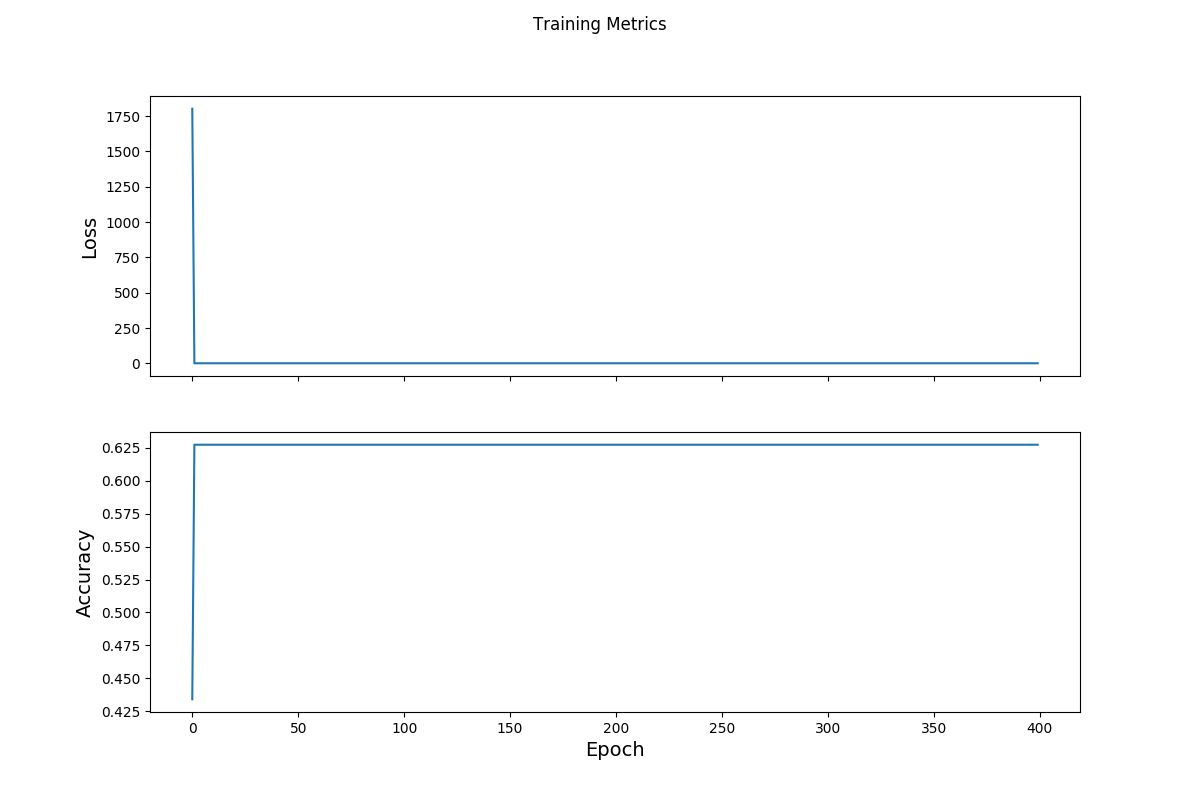
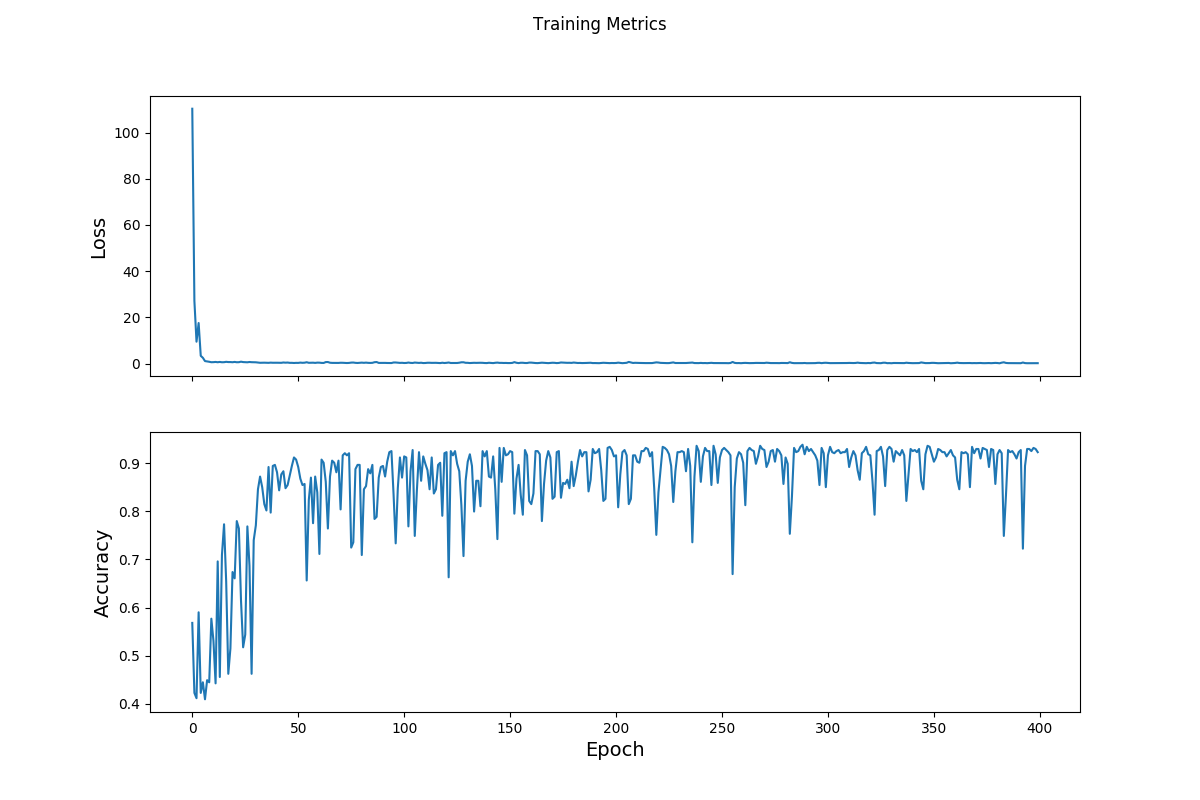
Got cancer bot to 86.57% accuracy

diff --git a/iris/cancer_predictor/test_cancer.py b/iris/cancer_predictor/test_cancer.py
@@ -1,32 +1,40 @@
 from os import path
 from pathlib import Path
 import unittest
-from fraud import Fraud
+from cancer import Cancer
 import tensorflow as tf
 tf.enable_eager_execution()
 
-class IrisTest(tf.test.TestCase):
+class CancerTest(tf.test.TestCase):
 
     def setUp(self):
-        self.fraud = Fraud()
+        self.cancer = Cancer()
 
     def test_download_function(self):
-        filepath = self.fraud.download_data()[-14:]
-        self.assertAllEqual(filepath ,'creditcard.csv')
+        filepath = self.cancer.download_data()[-19:]
+        self.assertAllEqual(filepath ,'cancer-training.csv')
+
+    def test_download_function(self):
+        filepath = self.cancer.download_test_data()[-18:]
+        self.assertAllEqual(filepath ,'cancer-testing.csv')
 
     def test_format_data_features_is_tensor(self):
-        features, label, dataset = self.fraud.format_data(self.fraud.download_data())
+        features, label, dataset = self.cancer.format_data(self.cancer.download_data())
         self.assertTrue(isinstance(features[0], tf.Tensor))
         self.assertTrue(isinstance(label[0], tf.Tensor))
 
+    def test_test_function_returns_accuracy(self):
+        test_accuracy_result = self.cancer.test()
+        self.assertAllEqual(test_accuracy_result[-1:], '%')
+
     def test_train_function_adds_to_loss_array(self):
-        train_loss_results, train_accuracy_results = self.fraud.train()
-        self.assertAllEqual(len(train_loss_results), 8)
-        self.assertAllEqual(len(train_accuracy_results), 8)
+        train_loss_results, train_accuracy_results = self.cancer.train()
+        self.assertAllEqual(len(train_loss_results), 400)
+        self.assertAllEqual(len(train_accuracy_results), 400)
 
     def test_graph_creates_file(self):
-        self.fraud.graph([[3,2,4,5], [2,7,1,0]], 'test_fraud_graphs')
-        my_file = Path('./test_fraud_graphs/figure.png')
+        self.fraud.graph([[3,2,4,5], [2,7,1,0]], 'test_cancer_graphs')
+        my_file = Path('./test_cancer_graphs/figure.png')
         self.assertTrue(my_file.is_file())
 
 if __name__ == '__main__':

diff --git a/iris/cancer_predictor/cancer.py b/iris/cancer_predictor/cancer.py
@@ -12,22 +12,26 @@ class Cancer:
             tf.keras.layers.Dense(16, activation="relu"),
             tf.keras.layers.Dense(2)
         ])
-        self.optimizer = tf.train.GradientDescentOptimizer(learning_rate=0.01)
+        self.optimizer = tf.train.GradientDescentOptimizer(learning_rate=0.001)
         self.train_loss_results = []
         self.train_accuracy_results = []
         self.epoch_number = 400
         self.class_ids = ["Benign", "Malignant"]
 
     def download_data(self):
-        train_dataset_fp = 'cancer.csv'
+        train_dataset_fp = 'cancer-training.csv'
+        return train_dataset_fp
+
+    def download_test_data(self):
+        train_dataset_fp = 'cancer-testing.csv'
         return train_dataset_fp
 
     def format_data(self, data_filepath):
         train_dataset = tf.data.TextLineDataset(data_filepath)
         train_dataset = train_dataset.skip(1)
         train_dataset = train_dataset.map(self.__parse_csv)
-        train_dataset = train_dataset.shuffle(buffer_size=50000)
-        train_dataset = train_dataset.batch(400)
+        train_dataset = train_dataset.shuffle(buffer_size=5000)
+        train_dataset = train_dataset.batch(150)
         features, label = tfe.Iterator(train_dataset).next()
         return features, label, train_dataset
 
@@ -59,19 +63,6 @@ class Cancer:
 
         print("Test set accuracy: {:.3%}".format(test_accuracy.result()))
         return "{:.3%}".format(test_accuracy.result())
-
-    def predict(self, data):
-        predict_dataset = tf.convert_to_tensor(data)
-
-        predictions = self.model(predict_dataset)
-        returned_predictions = []
-
-        for i, logits in enumerate(predictions):
-          class_idx = tf.argmax(logits).numpy()
-          name = self.class_ids[class_idx]
-          returned_predictions.append("Example {} prediction: {}".format(i+1, name))
-        print("\n".join(returned_predictions))
-        return "\n".join(returned_predictions)
 
     def __parse_csv(self, line):
         example_defaults = [

diff --git a/iris/cancer_predictor/cancer_retraining_controller.py b/iris/cancer_predictor/cancer_retraining_controller.py
@@ -8,12 +8,12 @@ import tensorflow.contrib.eager as tfe
 
 tf.enable_eager_execution()
 
-from iris import Iris
+from cancer import Cancer
 
-iris = Iris()
-model = iris.model
+cancer = Cancer()
+model = cancer.model
 optimizer = tf.train.AdamOptimizer(learning_rate=0.001)
-checkpoint_dir = './iris_model'
+checkpoint_dir = './cancer_model'
 checkpoint_prefix = os.path.join(checkpoint_dir, "ckpt")
 root = tfe.Checkpoint(optimizer=optimizer,
                       model=model,
@@ -21,12 +21,13 @@ root = tfe.Checkpoint(optimizer=optimizer,
 
 root.restore(tf.train.latest_checkpoint(checkpoint_dir))
 
-data_array = []
-while True:
-    data = (input("Please enter features to predict (type 'exit' to stop):\n"))
-    if data == 'exit':
-        break
-    data = data.split(",")
-    data_array.append([float(i) for i in data])
-if len(data_array) > 0:
-    iris.predict(data_array)
+cancer.train()
+
+model = cancer.model
+optimizer = tf.train.AdamOptimizer(learning_rate=0.001)
+checkpoint_dir = './cancer_model'
+checkpoint_prefix = os.path.join(checkpoint_dir, "ckpt")
+root = tfe.Checkpoint(optimizer=optimizer,
+                      model=model,
+                      optimizer_step=tf.train.get_or_create_global_step())
+root.save(file_prefix=checkpoint_prefix)

diff --git a/iris/cancer_predictor/cancer_testing_controller.py b/iris/cancer_predictor/cancer_testing_controller.py
@@ -8,12 +8,12 @@ import tensorflow.contrib.eager as tfe
 
 tf.enable_eager_execution()
 
-from iris import Iris
+from cancer import Cancer
 
-iris = Iris()
-model = iris.model
+cancer = Cancer()
+model = cancer.model
 optimizer = tf.train.AdamOptimizer(learning_rate=0.001)
-checkpoint_dir = './iris_model'
+checkpoint_dir = './cancer_model'
 checkpoint_prefix = os.path.join(checkpoint_dir, "ckpt")
 root = tfe.Checkpoint(optimizer=optimizer,
                       model=model,
@@ -21,4 +21,4 @@ root = tfe.Checkpoint(optimizer=optimizer,
 
 root.restore(tf.train.latest_checkpoint(checkpoint_dir))
 
-iris.test()
+cancer.test()
